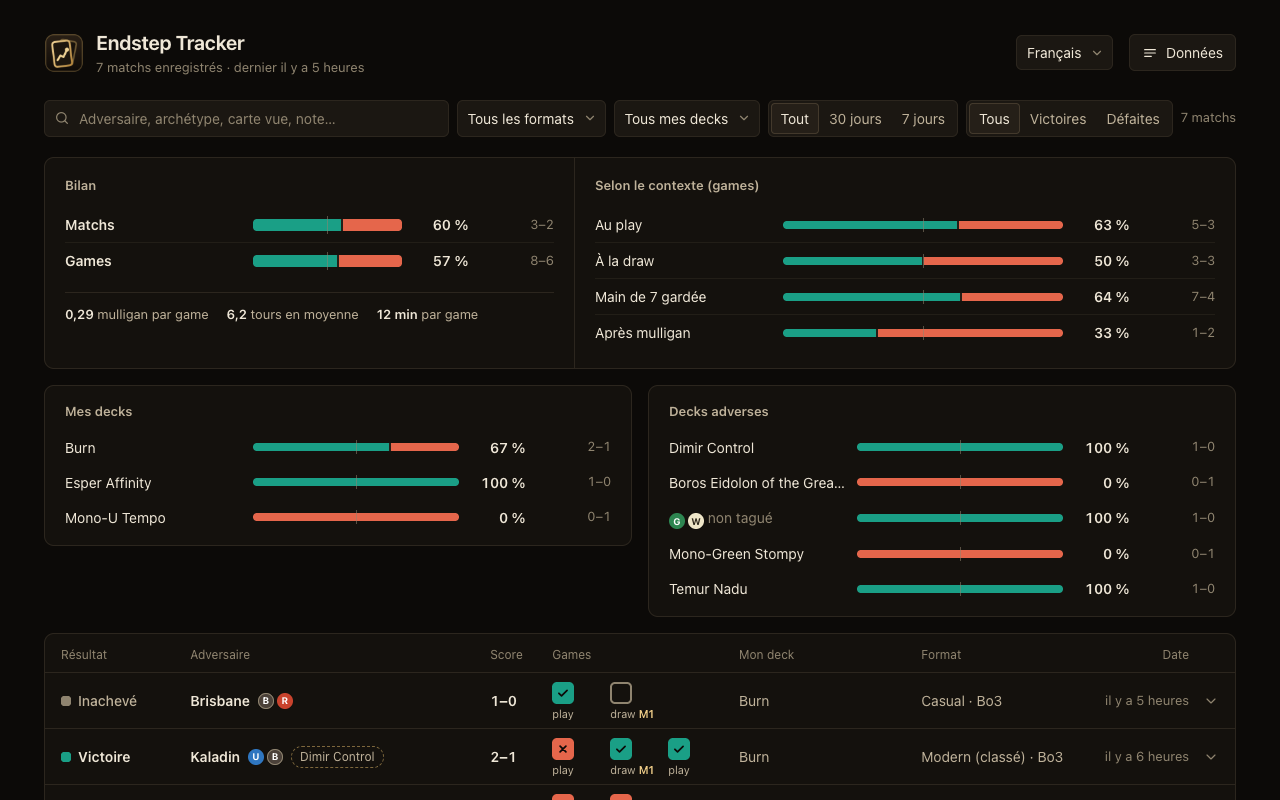
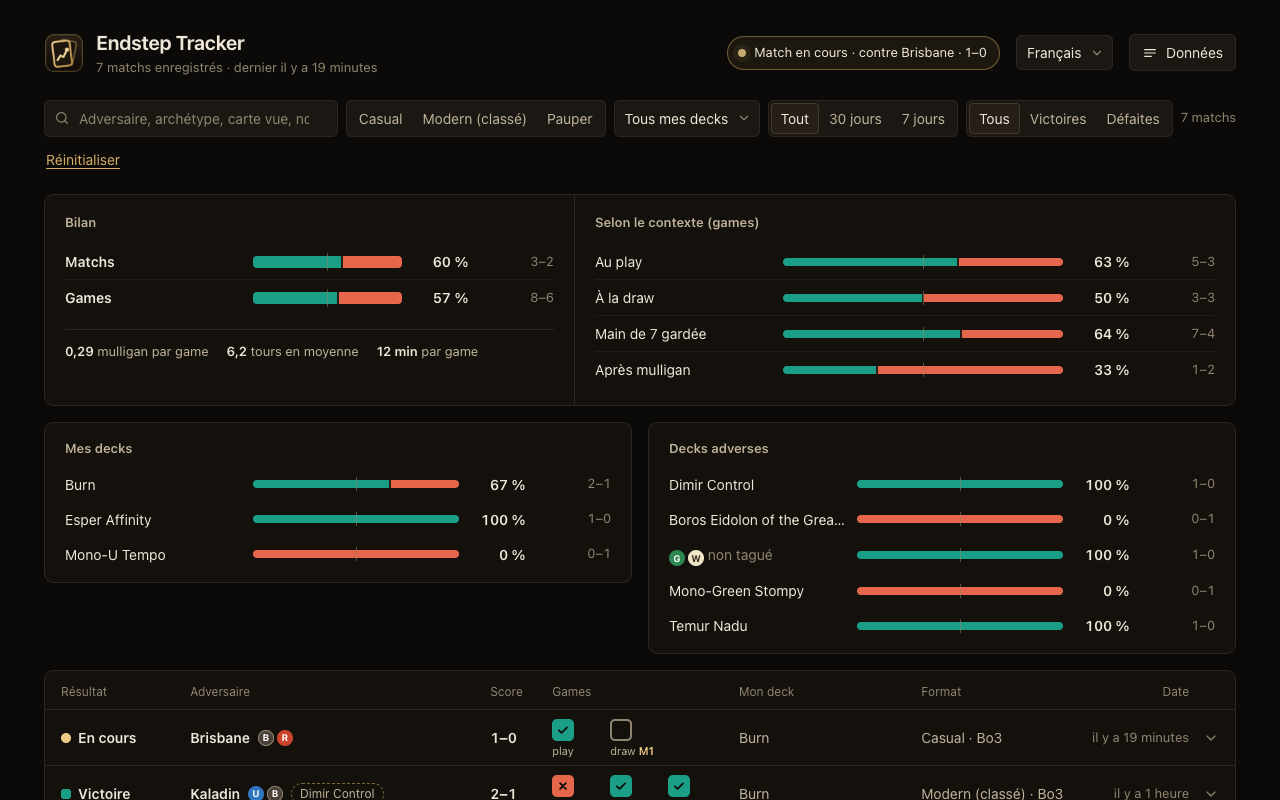
Format filter as toggle chips: one per format, several at once, the most played on by default
Replaces the format select. state.formats: null = the most played format alone (the default),
[] = every format, else the chips that are on; a saved single-select value migrates. Reset returns to
the default. Store screenshots regenerated (with every format on, the demo reads better).

diff --git a/dashboard.js b/dashboard.js
@@ -51,7 +51,7 @@ const BASICS = /^(Snow-Covered )?(Plains|Island|Swamp|Mountain|Forest|Wastes)$/;
 const STALE_MS = 3 * 3600e3;
 const PREFS = 'endstep-tracker.filters';
 
-const state = { q: '', format: '', deck: '', period: 'all', result: 'all', opp: null };
+const state = { q: '', formats: null, deck: '', period: 'all', result: 'all', opp: null }; // formats: null = the most played one, [] = all
 let matches = [];
 let notes = {}; // matchId -> { archetype, notes, deckId } (kept apart so the live tracker never overwrites them)
 let decks = {}; // deckId -> { name, format, formatId, cards, sideboard }: my decks as seen on the site
@@ -125,22 +125,29 @@ function oppKey(m) {
 // --- filters ---
 function loadPrefs() {
   try { Object.assign(state, JSON.parse(localStorage.getItem(PREFS)) || {}); } catch { /* storage unavailable */ }
+  if ('format' in state) { state.formats = state.format ? [state.format] : null; delete state.format; } // pre-chips single select
   $('#q').value = state.q;
 }
 function savePrefs() {
   try { localStorage.setItem(PREFS, JSON.stringify(state)); } catch { /* storage unavailable */ }
 }
-const filtersActive = () => !!(state.q || state.format || state.deck || state.opp || state.period !== 'all' || state.result !== 'all');
+// Formats by number of matches, most played first. Default selection: the most played one alone; none selected = all.
+const formatCounts = () => { const c = {}; for (const m of matches) c[fmt(m)] = (c[fmt(m)] || 0) + 1; return Object.entries(c).sort((a, b) => b[1] - a[1] || a[0].localeCompare(b[0], locale)); };
+const defaultFormats = () => (matches.length ? [formatCounts()[0][0]] : []);
+const activeFormats = () => (state.formats === null ? defaultFormats() : state.formats);
+const formatsDefault = () => state.formats === null || (state.formats.length === defaultFormats().length && state.formats.every((f) => defaultFormats().includes(f)));
+const filtersActive = () => !!(state.q || !formatsDefault() || state.deck || state.opp || state.period !== 'all' || state.result !== 'all');
 function setFilter(patch) { Object.assign(state, patch); savePrefs(); render(); }
 function resetFilters() {
   $('#q').value = '';
-  setFilter({ q: '', format: '', deck: '', period: 'all', result: 'all', opp: null });
+  setFilter({ q: '', formats: null, deck: '', period: 'all', result: 'all', opp: null });
 }
 
 function filtered() {
   const q = state.q.trim().toLowerCase();
   const since = state.period === 'all' ? 0 : Date.now() - Number(state.period) * 864e5;
-  return matches.filter((m) => (!state.format || fmt(m) === state.format)
+  const fmts = activeFormats();
+  return matches.filter((m) => (!fmts.length || fmts.includes(fmt(m)))
     && (!state.deck || deckName(m) === state.deck)
     && m.startedAt >= since
     && (state.result === 'all' || m.result === state.result)
@@ -152,6 +159,15 @@ function haystack(m) {
   const n = notes[m.id] || {};
   const seen = opps(m).flatMap((p) => Object.keys(T.seenCards(m, p.seat)));
   return [oppLabel(m), n.archetype, (guessFor(m) || {}).name, n.notes, deckName(m), fmt(m), ...seen].join('\n').toLowerCase();
+}
+
+function fillFormats() {
+  const counts = formatCounts();
+  if (state.formats && state.formats.length) { // a saved format whose matches were deleted
+    state.formats = state.formats.filter((f) => counts.some(([v]) => v === f));
+    if (!state.formats.length) state.formats = null;
+  }
+  $('#f-format').innerHTML = counts.map(([v, n]) => `<button type="button" data-value="${esc(v)}" aria-pressed="false" title="${esc(tn('n_matches', n))}">${esc(v)}</button>`).join('');
 }
 
 function fillSelect(sel, key, values) {
@@ -231,7 +247,7 @@ async function loadDecisions(id) {
 
 function refresh() {
   matches.sort((a, b) => b.startedAt - a.startedAt);
-  fillSelect('#f-format', 'format', matches.map(fmt));
+  fillFormats();
   fillSelect('#f-deck', 'deck', matches.map(deckName));
   const names = new Set(Object.values(notes).map((n) => n.archetype).filter(Boolean));
   for (const f of Object.values(metaData)) for (const d of f.decks) names.add(d.name); // the site's own archetype names
@@ -491,9 +507,11 @@ function renderFilters(list) {
   $('#reset').hidden = !filtersActive();
   $('#facet').hidden = !state.opp;
   if (state.opp) $('#facet-label').textContent = t('opponent_facet', { label: state.opp.label });
-  for (const seg of document.querySelectorAll('.seg')) {
+  for (const seg of document.querySelectorAll('.seg[data-filter]')) {
     for (const b of seg.querySelectorAll('button')) b.setAttribute('aria-pressed', String(state[seg.dataset.filter] === b.dataset.value));
   }
+  const on = new Set(activeFormats());
+  for (const b of $('#f-format').querySelectorAll('button')) b.setAttribute('aria-pressed', String(on.has(b.dataset.value)));
 }
 
 // One component for every win/loss record: label, proportional bar (50 % tick), win rate, W–L.
@@ -949,9 +967,15 @@ $('#split').addEventListener('click', (e) => {
 });
 
 $('#q').addEventListener('input', (e) => setFilter({ q: e.target.value }));
-$('#f-format').addEventListener('change', (e) => setFilter({ format: e.target.value }));
+$('#f-format').addEventListener('click', (e) => {
+  const b = e.target.closest('button');
+  if (!b) return;
+  const on = new Set(activeFormats());
+  if (on.has(b.dataset.value)) on.delete(b.dataset.value); else on.add(b.dataset.value);
+  setFilter({ formats: [...on] });
+});
 $('#f-deck').addEventListener('change', (e) => setFilter({ deck: e.target.value }));
-for (const seg of document.querySelectorAll('.seg')) {
+for (const seg of document.querySelectorAll('.seg[data-filter]')) {
   seg.addEventListener('click', (e) => {
     const b = e.target.closest('button');
     if (b) setFilter({ [seg.dataset.filter]: b.dataset.value });

diff --git a/store/shots.js b/store/shots.js
@@ -5,7 +5,7 @@ const H = `${__dirname}/../test/harness`;
 const sleep = (ms) => new Promise((r) => setTimeout(r, ms));
 (async () => {
   const b = await puppeteer.launch({ executablePath: CHROME, headless: true, args: ['--allow-file-access-from-files'] });
-  const open = async (lang) => {
+  const open = async (lang, prefs) => {
     const p = await b.newPage();
     // Same as the store build: no coach.js, no model (release.sh leaves them out); page errors would mean the dashboard needs them.
     await p.setRequestInterception(true);
@@ -13,7 +13,7 @@ const sleep = (ms) => new Promise((r) => setTimeout(r, ms));
     p.on('pageerror', (e) => { console.error('page error:', e.message); process.exitCode = 1; });
     await p.setViewport({ width: 1280, height: 800, deviceScaleFactor: 1 });
     await p.goto(`file://${H}/harness-demo.html`);
-    await p.evaluate(() => localStorage.clear());
+    await p.evaluate((prefs) => { localStorage.clear(); if (prefs) localStorage.setItem('endstep-tracker.filters', JSON.stringify(prefs)); }, prefs || null);
     await p.reload();
     await sleep(500);
     await p.select('#lang', lang);
@@ -24,14 +24,15 @@ const sleep = (ms) => new Promise((r) => setTimeout(r, ms));
     await p.evaluate(() => { const t = document.getElementById('toast'); if (t) t.hidden = true; });
     await p.screenshot({ path: `${__dirname}/${name}` });
   };
-  let p = await open('en');
+  const ALL = { formats: [] }; // every format: the default (most played only) shows a thinner demo
+  let p = await open('en', ALL);
   await shot(p, '1-dashboard-en.png');
   await p.click('.match[data-id="m1"] .match-row');
   await sleep(400);
   await p.evaluate(() => document.querySelector('.match[data-id="m1"]').scrollIntoView({ block: 'start' }));
   await sleep(300);
   await shot(p, '2-match-detail.png');
-  p = await open('fr');
+  p = await open('fr', ALL);
   await shot(p, '3-dashboard-fr.png');
   await b.close();
 })();

diff --git a/dashboard.html b/dashboard.html
@@ -111,6 +111,7 @@
     .seg button { border: 0; background: none; color: var(--ink-2); font: inherit; padding: 5px 10px; border-radius: 4px; cursor: pointer; }
     .seg button:hover { color: var(--ink); }
     .seg button[aria-pressed="true"] { background: var(--surface-3); color: var(--ink); box-shadow: inset 0 0 0 1px var(--line-strong); }
+    #f-format { flex-wrap: wrap; } /* one chip per format seen, can be many */
     .facet { display: inline-flex; align-items: center; gap: 6px; padding: 4px 6px 4px 10px; border-radius: 999px; background: rgb(212 174 98 / .12); border: 1px solid rgb(212 174 98 / .4); font-size: 13px; }
     .facet button { display: inline-grid; place-items: center; width: 20px; height: 20px; border: 0; border-radius: 50%; background: none; color: var(--ink-2); cursor: pointer; }
     .facet button:hover { background: rgb(212 174 98 / .2); color: var(--ink); }
@@ -372,7 +373,7 @@
         <svg class="i"><use href="#i-search"/></svg>
         <input id="q" type="search" data-i18n-attr="placeholder:search_placeholder,aria-label:search" aria-keyshortcuts="/">
       </label>
-      <select id="f-format" data-i18n-attr="aria-label:format"><option value="" data-i18n="all_formats"></option></select>
+      <div id="f-format" class="seg" role="group" data-i18n-attr="aria-label:format"></div>
       <select id="f-deck" data-i18n-attr="aria-label:my_deck"><option value="" data-i18n="all_decks"></option></select>
       <div class="seg" role="group" data-i18n-attr="aria-label:period" data-filter="period">
         <button data-value="all" data-i18n="period_all"></button><button data-value="30" data-i18n="period_30"></button><button data-value="7" data-i18n="period_7"></button>
